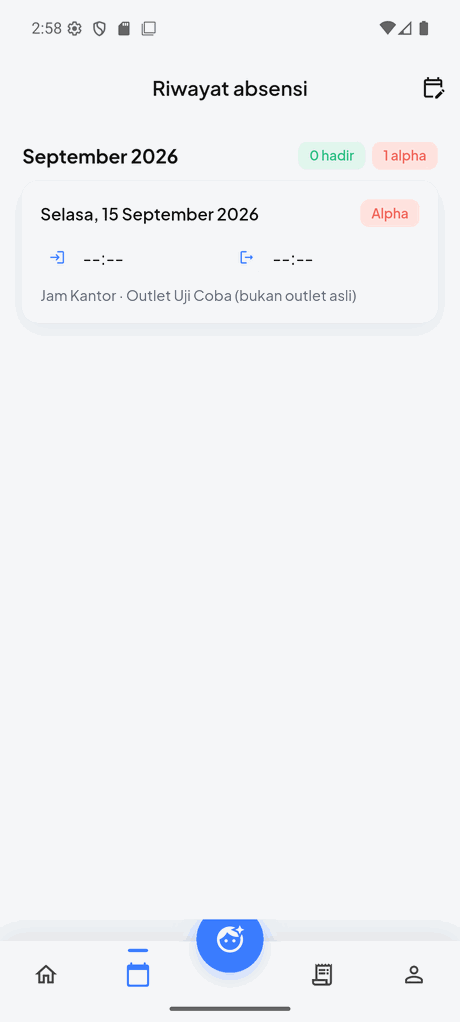
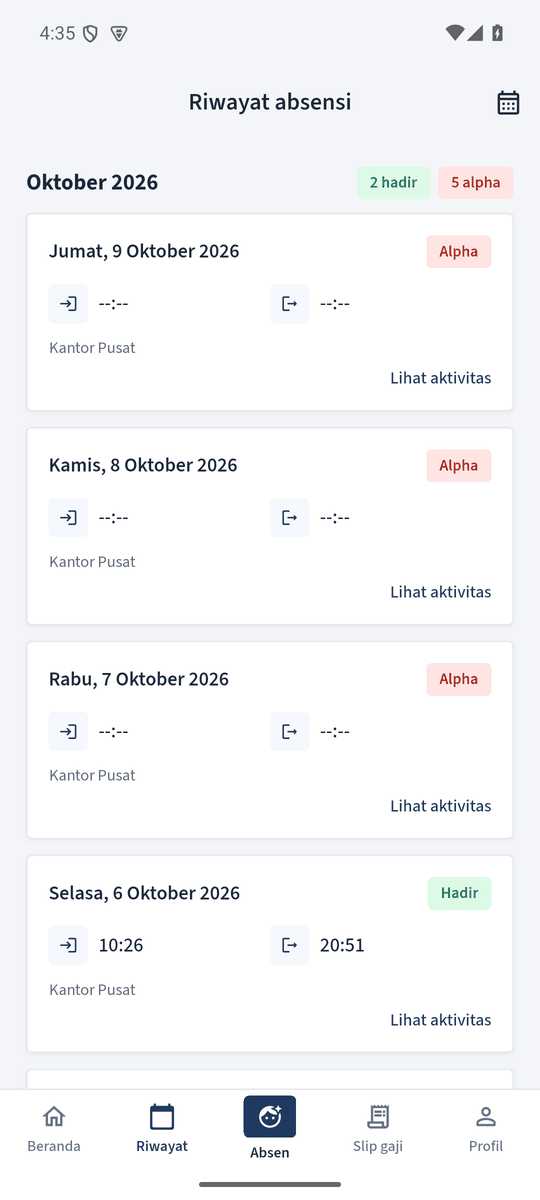
Replace the phone screenshots with the current app
Captured from the published build in the current theme, with the employee
name, initials and work site replaced.

diff --git a/docs/projects/face-attendance-mobile-kiosk.md b/docs/projects/face-attendance-mobile-kiosk.md
@@ -164,4 +164,4 @@ For the backend, the HR dashboard, the attendance rules, the contract and turnov
 
 ---
 
-*Built for a private client. Company name, brands, outlets and employee data are omitted or replaced throughout. The app screenshots come from a test account on a test outlet, not from a real employee or a real store.*
+*Built for a private client. Company name, brands, outlets and employee data are omitted or replaced throughout. The app screenshots are taken from the running app with the employee name, initials and work site replaced.*
